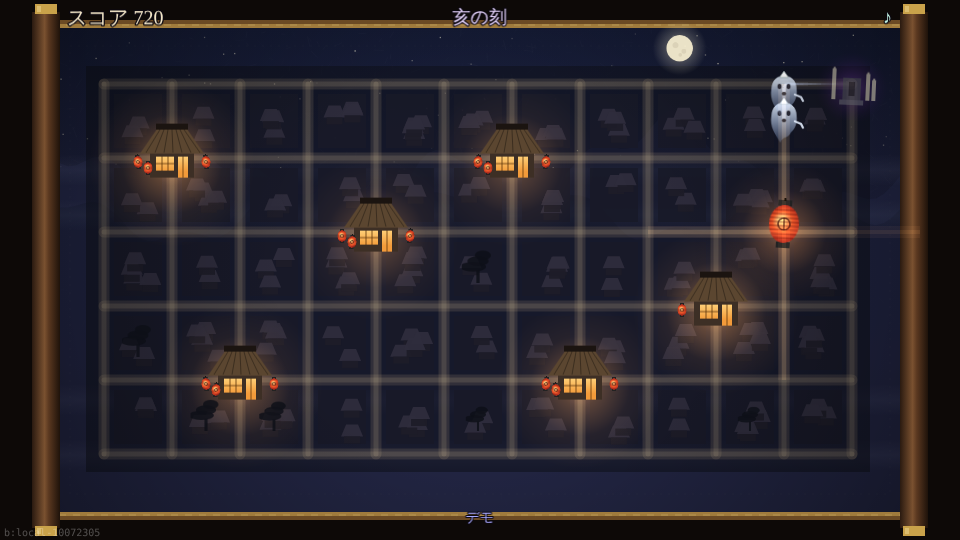
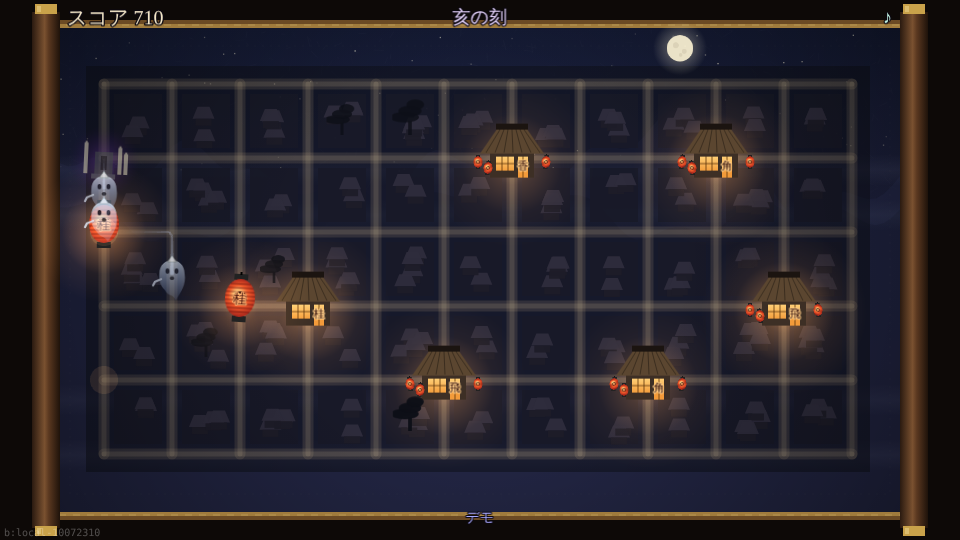
7 回目: 提灯に将棋の駒(飛・角・香・桂)
- 家ごとに駒が決まる(のれんの紋)。遊ぶたびに変わる
- 光は駒の動きで走る: 飛=十字 / 角=斜め / 香=投げた向きに遠く / 桂=跳ぶ。誘爆は駒の形のまま連なる
- 回転の操作は入れず、投げた向きを香・桂の前にした
- bot: 先読み 16 刻 / 先読みなし 7 刻 / 指 1 秒遅れ 17 刻

Claude-Session: https://claude.ai/code/session_011ZQ4bN2MTkz7EzzsNRZLay

diff --git a/src/game/logic.ts b/src/game/logic.ts
@@ -41,6 +41,23 @@ const DIRS: ReadonlyArray<[number, number]> = [[1, 0], [-1, 0], [0, 1], [0, -1]]
 
 export type GhostKind = 'fuwa' | 'zig' | 'hop' | 'kirai';
 
+/** 提灯の駒(将棋の動きで光が走る)。家ごとに決まっていて、遊ぶたびに変わる */
+export type Piece = 'hisha' | 'kaku' | 'kyo' | 'kei';
+export const PIECE_CHAR: Record<Piece, string> = { hisha: '飛', kaku: '角', kyo: '香', kei: '桂' };
+/** 光の筋(dc, dr の向きに len 辻ぶん) */
+export interface Ray { dc: number; dr: number; len: number }
+
+/** 駒の光の形。fwd は投げた向き(香・桂の「前」) */
+export function pieceShape(piece: Piece, fwd: [number, number], P: { range: number; lanceRange: number }): { rays: Ray[]; jumps: Array<[number, number]> } {
+  const [fc, fr] = fwd;
+  switch (piece) {
+    case 'hisha': return { rays: [[1, 0], [-1, 0], [0, 1], [0, -1]].map(([dc, dr]) => ({ dc, dr, len: P.range })), jumps: [] };
+    case 'kaku': return { rays: [[1, 1], [1, -1], [-1, 1], [-1, -1]].map(([dc, dr]) => ({ dc, dr, len: P.range })), jumps: [] };
+    case 'kyo': return { rays: [{ dc: fc, dr: fr, len: P.lanceRange }], jumps: [] };
+    case 'kei': return { rays: [], jumps: [[fc * 2 + fr, fr * 2 + fc], [fc * 2 - fr, fr * 2 - fc]] };
+  }
+}
+
 export interface Ghost {
   id: number; kind: GhostKind;
   /** 通りの上の位置(いつも通りの線の上) */
@@ -76,13 +93,15 @@ export interface Lantern {
   armed: boolean;
   /** 灯ってからの秒 */
   age: number;
+  /** 駒(投げた家の駒)と、投げた向き */
+  piece: Piece; fwd: [number, number];
 }
-export interface House { x: number; y: number; node: number; lit: boolean; ammo: number; haunt: number; flash: number }
+export interface House { x: number; y: number; node: number; lit: boolean; ammo: number; haunt: number; flash: number; piece: Piece }
 /** あの世の口(おばけの出てくる辻)。刻ごとに場所が変わり、刻の前から見えている */
 export interface Portal { x: number; y: number; node: number }
-/** 十字の光。通りに沿って ext(辻いくつ分)まで広がり、留まって、縮む */
+/** 光。駒の形の筋に沿って ext(辻いくつ分)まで広がり、留まって、縮む。桂は跳んだ先の辻が光る */
 export interface Blast {
-  x: number; y: number; h: boolean; v: boolean;
+  x: number; y: number; rays: Ray[]; jumps: Array<{ x: number; y: number }>;
   range: number; ext: number; hold: number; shrinking: boolean;
   chain: number; big: boolean;
 }
@@ -159,7 +178,10 @@ export class Game {
       if (nodes.every((m) => gridDist(m, n) >= 3)) nodes.push(n);
     }
     nodes.sort((a, b) => nodeCol(a) - nodeCol(b));
-    return nodes.map((n) => ({ x: nodeX(n), y: nodeY(n), node: n, lit: true, ammo: 0, haunt: 0, flash: 0 }));
+    // 家ごとの駒(遊ぶたびに変わる)。飛と角は 2 軒ずつ、香と桂は 1 軒ずつ
+    const pieces: Piece[] = ['hisha', 'hisha', 'kaku', 'kaku', 'kyo', 'kei'];
+    for (let i = pieces.length - 1; i > 0; i--) { const j = this.rng.int(0, i); [pieces[i], pieces[j]] = [pieces[j], pieces[i]]; }
+    return nodes.map((n, i) => ({ x: nodeX(n), y: nodeY(n), node: n, lit: true, ammo: 0, haunt: 0, flash: 0, piece: pieces[i % pieces.length] }));
   }
 
   waveSize(n: number) { return Math.round(this.P.waveBase + this.P.waveGrow * n); }
@@ -239,14 +261,22 @@ export class Game {
     const h = this.houses[hi];
     h.ammo--;
     const sy = h.y - 18;
-    this.lanterns.push({ id: this.nextId++, node, sx: h.x, sy, x: h.x, y: sy, flying: true, flyT: 0, flyDur: this.flightTime(node), armed: false, age: 0 });
+    // 投げた向き(香・桂の「前」): 家から見て、縦横の大きい方
+    const dc = nodeCol(node) - nodeCol(h.node), dr = nodeRow(node) - nodeRow(h.node);
+    const fwd: [number, number] = Math.abs(dc) >= Math.abs(dr) ? [Math.sign(dc), 0] : [0, Math.sign(dr)];
+    this.lanterns.push({ id: this.nextId++, node, sx: h.x, sy, x: h.x, y: sy, flying: true, flyT: 0, flyDur: this.flightTime(node), armed: false, age: 0, piece: h.piece, fwd });
     this.events.push({ type: 'launch', sx: h.x, sy, x: tx, y: ty, house: hi });
   }
 
   /** 提灯が弾ける。chain があれば誘爆(同じ連鎖として数える) */
   private burst(l: Lantern, chain: Chain | null) {
     const c = chain ?? this.newChain(l.x, l.y);
-    this.blasts.push({ x: nodeX(l.node), y: nodeY(l.node), h: true, v: true, range: this.P.range, ext: 0, hold: this.P.lightHold, shrinking: false, chain: c.id, big: true });
+    const shape = pieceShape(l.piece, l.fwd, this.P);
+    const c0 = nodeCol(l.node), r0 = nodeRow(l.node);
+    const jumps = shape.jumps.filter(([dc, dr]) => c0 + dc >= 0 && c0 + dc < GRID.cols && r0 + dr >= 0 && r0 + dr < GRID.rows)
+      .map(([dc, dr]) => ({ x: nodeX(nodeAt(c0 + dc, r0 + dr)), y: nodeY(nodeAt(c0 + dc, r0 + dr)) }));
+    const range = Math.max(1, ...shape.rays.map((r) => r.len));
+    this.blasts.push({ x: nodeX(l.node), y: nodeY(l.node), rays: shape.rays, jumps, range, ext: 0, hold: this.P.lightHold, shrinking: false, chain: c.id, big: true });
     this.lanterns = this.lanterns.filter((q) => q !== l);
     for (const g of this.ghosts) if (g.lure === l.id) this.release(g);
     this.events.push({ type: 'break', x: l.x, y: l.y, chained: !!chain });
@@ -279,7 +309,10 @@ export class Game {
       s.age += dt;
       if (s.age < P.wispDelay) continue;
       const c = this.chains.get(s.chain) ?? this.newChain(s.x, s.y);
-      this.blasts.push({ x: s.x, y: s.y, h: s.h, v: s.v, range: P.wispRange, ext: 0, hold: P.lightHold * 0.5, shrinking: false, chain: c.id, big: false });
+      const rays: Ray[] = [];
+      if (s.h) rays.push({ dc: 1, dr: 0, len: P.wispRange }, { dc: -1, dr: 0, len: P.wispRange });
+      if (s.v) rays.push({ dc: 0, dr: 1, len: P.wispRange }, { dc: 0, dr: -1, len: P.wispRange });
+      this.blasts.push({ x: s.x, y: s.y, rays, jumps: [], range: Math.max(0.01, P.wispRange), ext: 0, hold: P.lightHold * 0.5, shrinking: false, chain: c.id, big: false });
       this.wisps = this.wisps.filter((q) => q !== s);
       this.events.push({ type: 'wispPop', x: s.x, y: s.y });
     }
@@ -508,11 +541,15 @@ export class Game {
     }
   }
 
-  /** 光が届いている所か(十字の線の上、中心から ext 辻ぶん以内) */
+  /** 光が届いている所か(駒の筋の上、中心から ext 辻ぶん以内。桂は跳んだ先) */
   covers(b: Blast, x: number, y: number, r = 0) {
     if (Math.hypot(x - b.x, y - b.y) <= 16 + r) return true;
-    if (b.h && Math.abs(y - b.y) < 1 && Math.abs(x - b.x) <= b.ext * GRID.dx + r) return true;
-    if (b.v && Math.abs(x - b.x) < 1 && Math.abs(y - b.y) <= b.ext * GRID.dy + r) return true;
+    for (const ray of b.rays) {
+      const L = Math.min(ray.len, b.ext);
+      if (L <= 0) continue;
+      if (distToSeg(x, y, b.x, b.y, b.x + ray.dc * GRID.dx * L, b.y + ray.dr * GRID.dy * L) <= Math.max(1, r)) return true;
+    }
+    if (b.ext >= 1) for (const j of b.jumps) if (Math.hypot(x - j.x, y - j.y) <= 18 + r) return true;
     return false;
   }
 
@@ -571,6 +608,12 @@ export class Game {
 }
 
 export function clamp(v: number, a: number, b: number) { return v < a ? a : v > b ? b : v; }
+/** 点 (x, y) と線分の距離 */
+export function distToSeg(x: number, y: number, x0: number, y0: number, x1: number, y1: number) {
+  const vx = x1 - x0, vy = y1 - y0, l2 = vx * vx + vy * vy;
+  const k = l2 ? clamp(((x - x0) * vx + (y - y0) * vy) / l2, 0, 1) : 0;
+  return Math.hypot(x - (x0 + vx * k), y - (y0 + vy * k));
+}
 export function lerp(a: number, b: number, t: number) { return a + (b - a) * t; }
 
 /** タップの入力文字列 "x,y;x,y;" ⇔ 座標 */

diff --git a/src/scenes/Play.ts b/src/scenes/Play.ts
@@ -1,7 +1,7 @@
 // プレイ画面。ゲームの中身(src/game/logic.ts)を 1/60 秒刻みで進め、その state を絵にするだけ。
 // 入力はタップ(src/ui/taps.ts)→ 次の step に渡す。同じ入力列を Recorder に残す(?replay= で再現)。
 import Phaser from 'phaser';
-import { Game, DT, W, H, GRID, nodeX, nodeY, encodeTaps, decodeTaps, type Ghost, type GameEvent } from '../game/logic';
+import { Game, DT, W, H, GRID, nodeX, nodeY, pieceShape, PIECE_CHAR, encodeTaps, decodeTaps, type Ghost, type GameEvent } from '../game/logic';
 import { readParams } from '../game/params';
 import { Bot } from '../game/bot';
 import { snd, bgmStart, bgmStop, bgmIntensity } from '../game/sound';
@@ -71,6 +71,8 @@ export class Play extends Phaser.Scene {
       const img = this.add.image(h.x, h.y, 'house_lit').setOrigin(0.5, 0.6);
       // 軒先に下がる提灯(この家から飛ばせる数。ミサイルコマンドの基地の弾)
       const hang = HANG.map(([dx, dy]) => this.add.image(h.x + dx, h.y + dy, 'lantern').setScale(0.3).setDepth(2));
+      // 家の駒は、のれんの紋で見せる(この家から投げる提灯の駒)
+      this.add.text(h.x + 11, h.y + 8, PIECE_CHAR[h.piece], txt(11, '#2a0806', { stroke: '#ffcf8a', strokeThickness: 2 })).setOrigin(0.5).setDepth(3);
       this.houseImgs.push({ img, glow, hang });
     }
     this.fx = this.add.graphics().setDepth(5);
@@ -306,21 +308,22 @@ export class Play extends Phaser.Scene {
       if (!s) {
         const glow = this.add.image(l.x, l.y, 'glow').setTint(0xff9a40).setBlendMode(Phaser.BlendModes.ADD).setDepth(8).setAlpha(0);
         const body = this.add.image(l.x, l.y, 'lantern').setDepth(12).setScale(0.55);
-        const label = this.add.text(l.x, l.y, '', txt(18, '#fff0d0')).setOrigin(0.5, 0).setDepth(45);
+        const label = this.add.text(l.x, l.y, PIECE_CHAR[l.piece], txt(13, '#3a0a06', { stroke: '#ffb070', strokeThickness: 2 })).setOrigin(0.5).setDepth(13);
         s = { body, glow, label };
         this.lSprites.set(l.id, s);
       }
-      s.label.setText('');
       if (l.flying) {
         // ゆっくり弧を描いて飛ぶ(行き先は辻)
         const k = l.flyT / l.flyDur;
         const arc = Math.sin(k * Math.PI) * Math.min(90, Math.hypot(nodeX(l.node) - l.sx, nodeY(l.node) - l.sy) * 0.35);
         s.body.setPosition(l.x, l.y - arc).setScale(0.55).setAngle(Math.sin(time * 14 + l.id) * 12);
         s.glow.setPosition(l.x, l.y - arc).setScale(0.5).setAlpha(0.6);
+        s.label.setPosition(l.x, l.y - arc + 1).setScale(0.6);
       } else {
         // 辻に下がった提灯。光は通りに沿ってこぼれる(弾けた時に光が走る道)
         if (s.body.scale < 1) s.body.setScale(Math.min(1, s.body.scale + 0.1));
         s.body.setPosition(l.x, l.y - 8).setAngle(Math.sin(time * 2 + l.id) * 5);
+        s.label.setPosition(l.x, l.y - 7).setScale(Math.min(1, s.body.scale)).setAngle(s.body.angle);
         s.glow.setPosition(l.x, l.y).setScale(1.1).setAlpha(0.55 + 0.08 * Math.sin(time * 5 + l.id));
       }
     }
@@ -387,25 +390,43 @@ export class Play extends Phaser.Scene {
       this.fx.lineBetween(tx - 6, ty + 6, tx + 6, ty - 6);
     }
     this.glowFx.clear();
-    // 下がった提灯の光が、通りに沿ってうっすらこぼれる(弾けたら光がここを走る)
+    // 下がった提灯の光が、駒の筋に沿ってうっすらこぼれる(弾けたら光がここを走る。印ではなく提灯の明かり)
     for (const l of g.lanterns) {
       if (l.flying) continue;
-      const hx = P.range * GRID.dx, vy = P.range * GRID.dy;
-      for (const [w, a] of [[12, 0.05], [4, 0.07]] as const) {
-        this.glowFx.fillStyle(0xffb060, a);
-        this.glowFx.fillRect(l.x - hx, l.y - w / 2, hx * 2, w);
-        this.glowFx.fillRect(l.x - w / 2, l.y - vy, w, vy * 2);
+      const shape = pieceShape(l.piece, l.fwd, P);
+      for (const ray of shape.rays) {
+        const ex = l.x + ray.dc * GRID.dx * ray.len, ey = l.y + ray.dr * GRID.dy * ray.len;
+        for (const [w, a] of [[12, 0.05], [4, 0.08]] as const) { this.glowFx.lineStyle(w, 0xffb060, a); this.glowFx.lineBetween(l.x, l.y, ex, ey); }
+      }
+      for (const [dc, dr] of shape.jumps) {
+        const jx = l.x + dc * GRID.dx, jy = l.y + dr * GRID.dy;
+        this.glowFx.fillStyle(0xffb060, 0.1); this.glowFx.fillCircle(jx, jy, 14);
       }
     }
-    // 十字の光: 通りに沿ってゆっくり走り、留まって、縮む
+    // 光: 駒の筋に沿ってゆっくり走り、留まって、縮む。桂は跳んだ先の辻が光る
     for (const b of g.blasts) {
       if (b.ext <= 0) continue;
-      const hx = b.ext * GRID.dx, vy = b.ext * GRID.dy;
       const layers: ReadonlyArray<[number, number, number]> = b.big ? [[22, 0xffb050, 0.3], [10, 0xfff0c0, 0.5], [4, 0xffffff, 0.6]] : [[14, 0xffc070, 0.28], [6, 0xfff0c0, 0.45]];
-      for (const [w, col, a] of layers) {
-        this.glowFx.fillStyle(col, a);
-        if (b.h) this.glowFx.fillRect(b.x - hx, b.y - w / 2, hx * 2, w);
-        if (b.v) this.glowFx.fillRect(b.x - w / 2, b.y - vy, w, vy * 2);
+      for (const ray of b.rays) {
+        const L = Math.min(ray.len, b.ext);
+        const ex = b.x + ray.dc * GRID.dx * L, ey = b.y + ray.dr * GRID.dy * L;
+        for (const [w, col, a] of layers) { this.glowFx.lineStyle(w, col, a); this.glowFx.lineBetween(b.x, b.y, ex, ey); }
+      }
+      if (b.jumps.length) {
+        const k = Math.min(1, b.ext);
+        for (const j of b.jumps) {
+          // 跳ぶ光: 弧を描いて跳んだ先で弾ける
+          const mx = (b.x + j.x) / 2, my = (b.y + j.y) / 2 - 30;
+          this.glowFx.lineStyle(3, 0xfff0c0, 0.5);
+          this.glowFx.beginPath();
+          for (let i = 0; i <= 10; i++) {
+            const u = (i / 10) * k;
+            const px = (1 - u) * (1 - u) * b.x + 2 * (1 - u) * u * mx + u * u * j.x, py = (1 - u) * (1 - u) * b.y + 2 * (1 - u) * u * my + u * u * j.y;
+            if (i === 0) this.glowFx.moveTo(px, py); else this.glowFx.lineTo(px, py);
+          }
+          this.glowFx.strokePath();
+          if (b.ext >= 1) { this.glowFx.fillStyle(0xfff0c0, 0.55); this.glowFx.fillCircle(j.x, j.y, 18); this.glowFx.fillStyle(0xffffff, 0.6); this.glowFx.fillCircle(j.x, j.y, 8); }
+        }
       }
       this.glowFx.fillStyle(0xfff6d8, b.big ? 0.55 : 0.4); this.glowFx.fillCircle(b.x, b.y, b.big ? 16 : 10);
     }

diff --git a/src/core/i18n.ts b/src/core/i18n.ts
@@ -17,8 +17,8 @@ const TABLE: Record<string, { ja: string; en: string }> = {
   mute: { ja: '音: ON', en: 'Sound: ON' },
   unmute: { ja: '音: OFF', en: 'Sound: OFF' },
   how1: { ja: 'おばけは墓場から通りを歩き、辻で曲がって、灯りの家へ向かう', en: 'Ghosts walk the streets from the graves, turning at crossings, toward lit houses.' },
-  how2: { ja: 'タップした辻へ、家から提灯がゆっくり飛ぶ。下がった提灯は近くのおばけを呼ぶ罠', en: 'Tap a crossing: a house throws a lantern there. It hangs as a trap that calls ghosts.' },
-  how3: { ja: 'かかったおばけは見とれて止まる。提灯を押すと光が十字に通りを走り、他の提灯も弾ける', en: 'Caught ghosts stop, entranced. Tap the lantern: light runs down the streets and sets off others.' },
+  how2: { ja: 'タップした辻へ近くの家から提灯が飛ぶ。のれんの紋が提灯の駒(飛・角・香・桂)', en: 'Tap a crossing: the nearest house throws a lantern. Its curtain crest is the piece (rook, bishop, lance, knight).' },
+  how3: { ja: '下がった提灯は罠。押すと駒の動きで光が走り、届いた提灯も弾ける(香・桂は投げた向きが前)', en: 'A hung lantern is a trap. Tap it: light moves like its piece and sets off lanterns it reaches.' },
   how4: { ja: '家におばけが入ると中の人が逃げ出して灯りが消える。提灯は軒先にある分だけ', en: 'A ghost in a house drives the family out. You only have the lanterns on the eaves.' },
   kinds: { ja: '階段に寄る幽霊 ・ まっすぐ速い鬼火 ・ 辻を跳び越す唐傘 ・ 灯りを避ける影法師', en: 'Stair-stepping ghost · Fast straight onibi · Crossing-skipping umbrella · Light-shy shadow' },
   chain: { ja: '連', en: ' chain' },

diff --git a/src/tuning.ts b/src/tuning.ts
@@ -16,7 +16,8 @@ export const KNOBS: Knob[] = [
   { key: 'lure.n', label: '提灯が呼ぶ距離', value: 3, min: 0, max: 8, step: 1, unit: '辻', aim: '通りを歩いてこの数の辻以内のおばけが寄ってくる' },
   { key: 'lure.capture', label: '提灯に見とれる時間', value: 3.5, min: 0.5, max: 10, step: 0.1, unit: '秒', aim: '罠にかかっている間。ここで弾けさせる' },
   // 十字の光(ボンバーマン)
-  { key: 'light.range', label: '光の届く辻の数', value: 2, min: 1, max: 6, step: 0.5, unit: '辻', aim: '他の提灯に届けば誘爆する' },
+  { key: 'light.range', label: '飛・角の光の届く辻の数', value: 2, min: 1, max: 6, step: 0.5, unit: '辻', aim: '他の提灯に届けば誘爆する' },
+  { key: 'light.lance', label: '香の光の届く辻の数', value: 5, min: 1, max: 11, step: 1, unit: '辻', aim: '投げた向きにまっすぐ遠くまで' },
   { key: 'light.speed', label: '光の広がる速さ', value: 1.8, min: 0.5, max: 10, step: 0.1, unit: '辻/秒', aim: 'ゆっくり広がる。歩いてくるおばけと出会う時を読む' },
   { key: 'light.hold', label: '光が留まる時間', value: 0.5, min: 0, max: 3, step: 0.1, unit: '秒' },
   { key: 'wisp.delay', label: '成仏したおばけが弾けるまで', value: 0.35, min: 0, max: 2, step: 0.05, unit: '秒' },

diff --git a/src/game/params.ts b/src/game/params.ts
@@ -9,6 +9,7 @@ export function readParams() {
     lureN: tune('lure.n'),
     capture: tune('lure.capture'),
     range: tune('light.range'),
+    lanceRange: tune('light.lance'),
     lightSpeed: tune('light.speed'),
     lightHold: tune('light.hold'),
     wispDelay: tune('wisp.delay'),

diff --git a/HANDOFF.md b/HANDOFF.md
@@ -2,7 +2,8 @@
 
 <!-- セッション終了時に AI が更新。別の AI が読んで続きを始められる内容にする。 -->
 
-## 現状(2026-10-08 6 回目: ミサイルコマンド × 平安京エイリアン × ボンバーマン)
+## 現状(2026-10-08 7 回目: × 将棋の駒)
+- 提灯に駒(飛・角・香・桂)。家ごとに駒が決まっていて(のれんの紋)、遊ぶたびに変わる。香・桂は投げた向きが前。DECISIONS.md の 2026-10-08「将棋の駒」。
 - 舞台を碁盤の目の都に作り直した。詳しくは SPEC.md「作った結果」と DECISIONS.md の 2026-10-08。
 - 投げる(ゆっくり弧を描く)→ 辻に下がる罠(近くのおばけを呼び、着いたら見とれて止まる)→ 押すと十字の光が通りを走る(誘爆・連鎖)。
 - おばけは辻でだけ曲がる。曲がり方は種類ごと(階段 / L 字 / 辻を跳び越す / 灯りを避ける)。
@@ -11,7 +12,7 @@
 
 ## 確認できたこと(この環境)
 - tsc / build / test:replay / check.mjs 40 秒 / 縦持ち・横持ち・PC のタップ位置。
-- `node tools/sim.mjs 16 0.9` = 13 刻、`NOLEAD=1`(今いる辻へ投げる)= 8 刻、`node tools/sim.mjs 16 0.9 1.0`(指が 1 秒遅れる)= 13 刻。
+- `node tools/sim.mjs 16 0.9` = 16 刻、`NOLEAD=1`(今いる辻へ投げる)= 7 刻、`node tools/sim.mjs 16 0.9 1.0`(指が 1 秒遅れる)= 17 刻。
   → 道筋の先読みが効き、反射神経には頼らない。
 - 未確認: 人間の手触り、実機スマホ、itch.io。
 
@@ -43,3 +44,4 @@
 - 2026-10-07 アプリ内ブラウザでは横向きにならない: 症状 = スマホを横にしても縦画面のまま → 原因 = Claude・X・LINE などのアプリ内ブラウザは向きを縦に固定することがあり、ページからは変えられない → 修正 = 触る端末で縦長の時は、ゲームの入れ物を CSS で 90 度回して全面に出す。縮尺は Phaser の FIT を使わず自前で計算(FIT は親の見た目の大きさを見るので、回すと縦長と誤解する)。タップ座標も回転に合わせて変換(src/ui/orient.ts, taps.ts) → 確かめ = Playwright で縦持ち・横持ち・PC の 3 通り、ゲーム座標 (300,120) を押して同じ座標が届くこと → 未確認 = 実機の iOS / Android。
 - 2026-10-08 【憲法・雛形の担当の方へ】確認は軽重を分けると速い(人間の依頼で提案): 症状 = push のたびの CI が約 76 秒。内訳は Chromium の取り込み 21 秒 + ブラウザでの自動プレイ確認 24 秒で、残りは 30 秒ほど → 原因 = AI は push 前に同じブラウザ確認を手元で回しており、CI と二重になっていた。さらに AI が CI を決め打ちで 110 秒待っていた → 修正 = CI からブラウザ確認を外した(build + 記録再生 + bot の数値確認だけ、約 30 秒)。手元の確認は「毎回: tsc・build・bot(数秒)/ 描画・入力・シーンを変えた時だけ: ブラウザ確認(約 1 分)/ 文書だけ: build のみ」に分けて AGENTS.md に書いた。公開キットの画像は手元のスクショを kit/assets に置く。CI は終わり次第すぐ見る → 確かめ = この repo で CI 約 30 秒を確認 → 未確認 = 人間が直接 push した時はブラウザ確認が入らない。提案: 雛形(web-app-template)の build-and-deploy.yml と AGENTS.md にも同じ分け方を入れる。
 - 2026-10-08 名作を掛け合わせる時は「動詞」で混ぜる: ミサイルコマンド = 先を読んで撃つ、平安京エイリアン = 仕掛けて待つ、ボンバーマン = 並べて誘爆させる。それぞれ 1 つの操作(投げる / 下がる / 弾ける)に割り当てて、1 つの物(提灯)の一生にした。舞台(碁盤の目)は「道を読めるようにする」ために選ぶ。さらに bot で「一番楽な勝ち方」を探すと、設計の穴が見つかる(今回は「家の前で待つだけ」が最強だった → 家の辻に置けない・猶予を短く)。
+- 2026-10-08 人間のひらめきは採点してから入れる: 「見て分かる / 題材と合う / 深さ / シンプルさ / 操作が増えないか」で 5 点満点を付け、低い所だけ別の形に置き換える(今回: テトリス式の回転は操作が増えて早押しに寄るので、「投げた向きが前」に置き換えた)。採点は DECISIONS に残すと、後から理由を追える。

diff --git a/SPEC.md b/SPEC.md
@@ -18,10 +18,11 @@
 - 追加で読むルール: (なし)
 
 ## 作った結果(AI 追記。挙動を変えたらここを直す)
-- 掛け合わせ: ミサイルコマンド(ゆっくり飛ぶ弾と、ゆっくり広がる爆発の時を読む)× 平安京エイリアン(通りに罠を仕掛けて待ち受ける)× ボンバーマン(十字の爆発と誘爆)。サイン(タイマー・数字・警告)は出さない。
+- 掛け合わせ: ミサイルコマンド(ゆっくり飛ぶ弾と、ゆっくり広がる爆発の時を読む)× 平安京エイリアン(通りに罠を仕掛けて待ち受ける)× ボンバーマン(誘爆)× 将棋(光の形 = 駒の動き)。サイン(タイマー・数字・警告)は出さない。
 - 舞台: 碁盤の目の都(辻 12 × 6)。家 6 軒は中ほどの辻に毎回ちがう並びで建つ。おばけは「あの世の口」(墓場。刻ごとに場所が変わり、刻の前から見えている)から出る。
 - おばけ: 通りを歩き、辻でだけ曲がって、一番近い灯りの家へ。曲がり方は種類ごとに決まっている。幽霊 = 縦横を交互に選んで階段のように寄る / 鬼火 = 速く、まっすぐ行けるうちは曲がらない(L 字)/ 唐傘 = 辻で止まり、辻を 1 つ飛ばして跳ぶ(跳び越した辻の罠にはかからない)/ 影法師 = 灯った提灯とその隣の辻を避けて回り込む(罠にかからない)。群れは同じ口から列になって出る。
 - 投げる: タップした所に一番近い辻へ、近くの家から提灯がゆっくり(170px/秒)弧を描いて飛ぶ。家のある辻には下げられない。同時に 3 つまで。弾は軒先の提灯(1 軒 3 つ、刻ごとに補充。家が消えると、その家の分も消える)。騒いでいる家からは投げられない。
 - 罠: 下がった提灯は、通りを歩いて 3 辻以内のおばけを呼ぶ。提灯の辻に着いたおばけは 3.5 秒見とれて動かない。
-- 弾けさせる: 提灯の辻をもう一度押すと、光が十字に通りを走る(1.8 辻/秒で 2 辻先まで、留まって、縮む)。光に触れた提灯も弾ける(誘爆)。成仏したおばけも、いる通りに沿って小さく弾ける(連鎖)。飛んでいる提灯の辻を押すと、着いたらすぐ弾ける。
+- 駒: 家ごとに提灯の駒が決まっていて(のれんの紋と提灯の字で見える)、遊ぶたびに変わる。飛 = 十字に 2 辻 / 角 = 斜めに 2 辻 / 香 = 投げた向きにまっすぐ 5 辻 / 桂 = 投げた向きの桂馬の 2 か所へ跳ぶ。どの家から投げるか(行き先に一番近い家)で駒と向きが決まる。回転の操作は無い。
+- 弾けさせる: 提灯の辻をもう一度押すと、光が駒の動きで走る(1.8 辻/秒で広がり、留まって、縮む)。光に触れた提灯も弾ける(誘爆)。成仏したおばけも、いる通りに沿って小さく弾ける(連鎖)。飛んでいる提灯の辻を押すと、着いたらすぐ弾ける。
 - 家: おばけが入ると中の人が騒ぎ、1.2 秒で逃げ出して灯りが消える。刻を越えると(残った家 × 50 + 余った提灯 × 20)× 刻 の点。10 連鎖以上で消えた家が 1 つ戻る。

diff --git a/QUESTIONS.md b/QUESTIONS.md
@@ -14,3 +14,6 @@
 - [ ] (6 回目)提灯は時間切れなしの罠。押した時だけ弾ける(時限式にはしなかった。平安京の「かかるのを待つ」を残すため)。
 - [ ] (6 回目)家のある辻には提灯を下げられない / 騒ぐ猶予は 1.2 秒。家の前で待ち受けるのが最強にならないように。
 - [ ] (6 回目)触ってほしいつまみ: `lantern.speed`(飛ぶ速さ)、`light.speed` `light.range`(光の広がり)、`lure.n` `lure.capture`(罠)、`ghost.speed`。
+- [ ] (7 回目)駒は 飛・角 を 2 軒ずつ、香・桂 を 1 軒ずつ。金・銀・王 は入れていない(覚えることを増やさないため)。
+- [ ] (7 回目)投げる家は「行き先に一番近い、提灯の残っている家」で自動。家を選ぶ操作は入れていない。選べるようにするなら「家をタップ → 辻をタップ」の 2 手になる。
+- [ ] (7 回目)回転(テトリス式)は入れず、投げた向きを香・桂の「前」にした。
